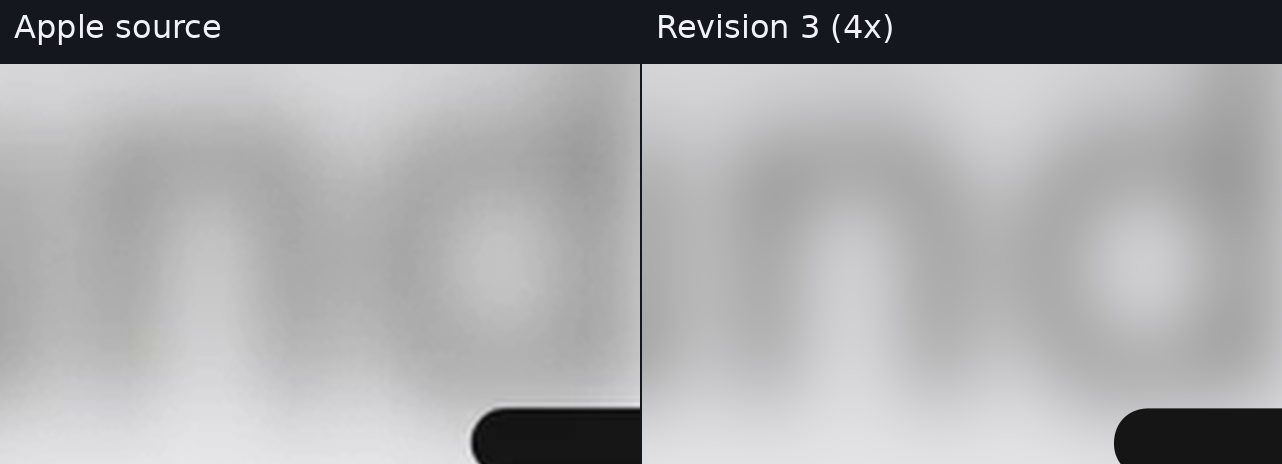
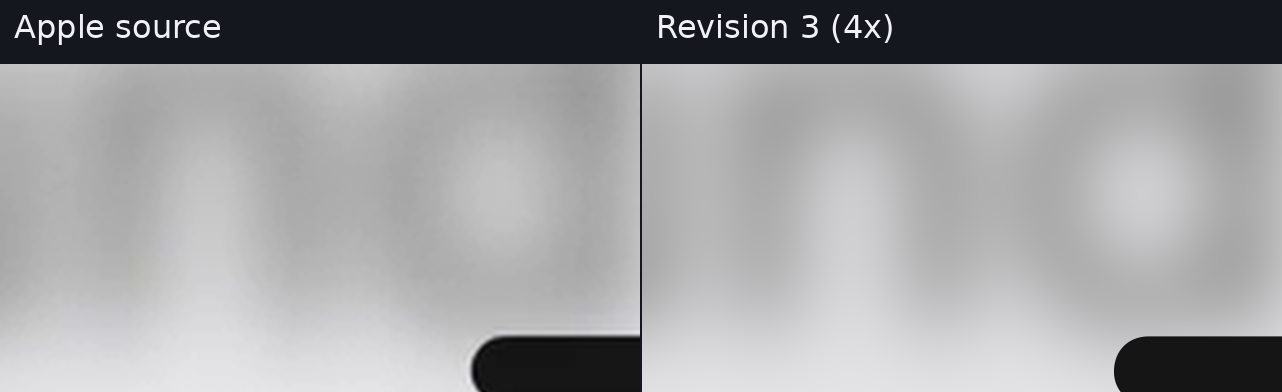
Use short nonregressive reconstruction rounds and extend toolbar crops (#222) [skip ci]

Changed region(s): [[0.0, 0.0306, 1.0, 0.2755], [0.3432, 0.8265, 0.4992, 0.9184], [0.8736, 0.8571, 1.0, 0.9184]]

diff --git a/docs/liquid-glass/experiments/reconstruction/progress_gate.py b/docs/liquid-glass/experiments/reconstruction/progress_gate.py
@@ -27,7 +27,7 @@ def error(score: dict) -> float:
 
 
 def evaluate(previous: dict, candidate: dict, *, visual_review: bool,
-             replay_verified: bool, source_support_verified: bool) -> dict:
+             replay_verified: bool, source_support_verified: bool, policy: str = 'nonregressive') -> dict:
     """Require matching named observations and an identical measurement epoch.
 
     epoch is a content digest of references, sources, masks, registration,
@@ -35,6 +35,8 @@ def evaluate(previous: dict, candidate: dict, *, visual_review: bool,
     Optional foreground/shadow errors become non-regression guards when present
     in the incumbent. Removing them is not permitted. Crops are advisory.
     """
+    if policy not in ('nonregressive', 'relative'):
+        raise ValueError('Unknown improvement policy')
     if not previous.get('epoch') or previous['epoch'] != candidate.get('epoch'):
         raise ValueError('Epoch mismatch: remeasure source/protocol changes separately')
     before, after = previous['observations'], candidate['observations']
@@ -47,28 +49,34 @@ def evaluate(previous: dict, candidate: dict, *, visual_review: bool,
         guards = {key: metric(new, key) <= metric(old, key)
                   for key in ('glass', 'foreground', 'shadow') if key in old}
         # Zero residual is terminal, not an infinite source of successful ties.
-        improved = E0 > 0 and E1 <= ERROR_RATIO * E0
+        improved = E0 > 0 and E1 < E0
+        passed = (E0 > 0 and E1 <= ERROR_RATIO * E0) if policy == 'relative' else E1 <= E0
         reports[name] = {'previous_error': E0, 'candidate_error': E1,
-                         'required_error_max': ERROR_RATIO * E0,
+                         'required_error_max': (ERROR_RATIO if policy == 'relative' else 1.) * E0,
                          'relative_reduction': (1-E1/E0) if E0 else None,
-                         'milestone_passed': improved, 'nonregression': guards,
-                         'passed': improved and all(guards.values())}
+                         'milestone_passed': passed, 'strict_improvement': improved, 'nonregression': guards,
+                         'passed': passed and all(guards.values())}
     checks = {'visual_review': visual_review is True,
               'independent_replay': replay_verified is True,
               'source_support': source_support_verified is True}
-    accepted = all(r['passed'] for r in reports.values()) and all(checks.values())
-    return {'accepted': accepted, 'epoch': previous['epoch'], 'error_ratio': ERROR_RATIO,
+    accepted = (all(r['passed'] for r in reports.values())
+                and any(r['strict_improvement'] for r in reports.values())
+                and all(checks.values()))
+    return {'accepted': accepted, 'epoch': previous['epoch'], 'policy': policy, 'error_ratio': ERROR_RATIO if policy == 'relative' else 1.,
             'observations': reports, 'evidence': checks}
 
 
-def progress(baseline_error: float, current_error: float, count: int) -> dict:
+def progress(baseline_error: float, current_error: float, count: int, *, policy: str = 'nonregressive') -> dict:
     if not math.isfinite(baseline_error) or baseline_error <= 0:
         raise ValueError('Progress requires positive finite baseline error')
     if not math.isfinite(current_error) or current_error < 0 or isinstance(count, bool) or not isinstance(count, int) or count < 0:
         raise ValueError('Invalid current error or qualifying-pass count')
-    return {'residual_reduction_percent': 100*(1-current_error/baseline_error),
-            'required_reduction_percent': 100*(1-ERROR_RATIO**count),
-            'required_error_max': baseline_error*ERROR_RATIO**count,
+    if policy not in ('nonregressive', 'relative'):
+        raise ValueError('Unknown improvement policy')
+    ratio = ERROR_RATIO if policy == 'relative' else 1.
+    return {'policy': policy, 'residual_reduction_percent': 100*(1-current_error/baseline_error),
+            'required_reduction_percent': 100*(1-ratio**count),
+            'required_error_max': baseline_error*ratio**count,
             'qualifying_passes': count, 'is_apple_accuracy': False}
 
 
@@ -77,9 +85,10 @@ def main():
     ap.add_argument('previous',type=Path);ap.add_argument('candidate',type=Path)
     ap.add_argument('--evidence',type=Path,required=True,
                     help='JSON booleans visual_review, replay_verified, source_support_verified')
+    ap.add_argument('--policy', choices=('nonregressive', 'relative'), default='nonregressive')
     args=ap.parse_args()
     report=evaluate(json.loads(args.previous.read_text()),json.loads(args.candidate.read_text()),
-                    **json.loads(args.evidence.read_text()))
+                    policy=args.policy, **json.loads(args.evidence.read_text()))
     print(json.dumps(report,indent=2,allow_nan=False))
     raise SystemExit(0 if report['accepted'] else 1)
 

diff --git a/docs/liquid-glass/experiments/reconstruction/test_progress_gate.py b/docs/liquid-glass/experiments/reconstruction/test_progress_gate.py
@@ -15,7 +15,7 @@ class GateTests(unittest.TestCase):
             for key in scores:scores[key]*=.99
         self.evidence=dict(visual_review=True,replay_verified=True,source_support_verified=True)
 
-    def gate(self):return evaluate(self.before,self.after,**self.evidence)
+    def gate(self):return evaluate(self.before,self.after,policy="relative",**self.evidence)
 
     def test_weighted_rms_not_mean_of_rms(self):
         self.assertAlmostEqual(error({'glass':10,'rim':20}),math.sqrt(190))
@@ -66,9 +66,26 @@ class GateTests(unittest.TestCase):
                 score['glass']=score['rim']=0
         self.assertFalse(self.gate()['accepted'])
 
+    def test_new_policy_accepts_small_gain_and_other_reference_tie(self):
+        self.after['observations']['A']={'glass':9.999,'rim':19.999,'shadow':3}
+        self.after['observations']['B']=copy.deepcopy(self.before['observations']['B'])
+        report=evaluate(self.before,self.after,**self.evidence)
+        self.assertTrue(report['accepted'])
+        self.assertEqual(report['policy'],'nonregressive')
+
+    def test_new_policy_rejects_all_ties_and_any_reference_regression(self):
+        self.after=copy.deepcopy(self.before)
+        self.assertFalse(evaluate(self.before,self.after,**self.evidence)['accepted'])
+        self.after['observations']['A']['glass']-=.01
+        self.after['observations']['B']['rim']+=.00001
+        self.assertFalse(evaluate(self.before,self.after,**self.evidence)['accepted'])
+
+    def test_new_progress_has_no_promised_compound_gain(self):
+        self.assertEqual(progress(10,9,15)['required_reduction_percent'],0)
+
     def test_milestones(self):
-        self.assertAlmostEqual(progress(10,9,15)['required_reduction_percent'],7.2431,places=3)
-        self.assertAlmostEqual(progress(10,9,20)['required_reduction_percent'],9.53895,places=3)
+        self.assertAlmostEqual(progress(10,9,15,policy="relative")['required_reduction_percent'],7.2431,places=3)
+        self.assertAlmostEqual(progress(10,9,20,policy="relative")['required_reduction_percent'],9.53895,places=3)
         self.assertFalse(progress(10,9,20)['is_apple_accuracy'])
 
 

diff --git a/docs/liquid-glass/recreation-models.md b/docs/liquid-glass/recreation-models.md
@@ -34,11 +34,11 @@ The circular playback control is the **current most-polished calibration**, sele
 The legacy records below predate this stricter protocol. Preserve their experiment counts and inputs; do not relabel them as qualifying improvements without an audit.
 
 - Freeze an input epoch: reference/source hashes, registration, masks, color space, native sampling, quantization and measurement definitions. Changed input evidence requires a separately reported epoch and baseline, not an apparent model improvement.
-- For each observation, measure RGB errors in 0–255 units: `E = sqrt(0.7 glass_RMSE² + 0.3 rim_RMSE²)`. A new qualifying pass requires `E_new ≤ 0.995 E_previous` **on every active background independently**, with no whole-glass regression. Retain foreground and exterior-shadow nonregression guards where measured. Ties and rejected trials do not count.
+- For each observation, measure RGB errors in 0–255 units: `E = sqrt(0.7 glass_RMSE² + 0.3 rim_RMSE²)`. A new qualifying pass requires `E_new ≤ E_previous` **on every active background independently**, at least one measurable improvement beyond known numerical uncertainty, and no whole-glass regression. This prospective nonregression policy replaces the earlier 0.5% minimum; preserve earlier acceptance records unchanged. Retain foreground and exterior-shadow nonregression guards where measured. Ties and rejected trials do not count.
 - A numerical win also requires independent replay, source-footprint validation and visual review against known defects. [Acceptance gate](experiments/reconstruction/progress_gate.py) consumes those separate evidence decisions; it cannot infer them from a low error.
-- After `n` qualifying passes, the residual must be at most `0.995ⁿ E₀`: 7.24% lower after 15, 9.54% after 20. Display `100(1−E/E₀)` as **residual reduction from baseline**, never percent Apple accuracy. A zero residual is terminal, not another successful tie.
+- There is no promised minimum compound gain. The gate retains `--policy relative` for reproducing historical 0.5% decisions. Prefer short bounded proposals and reuse valid unchanged-stage evidence. Display `100(1−E/E₀)` as **residual reduction from baseline**, never percent Apple accuracy. A zero residual is terminal, not another successful tie.
 - Review assumptions and model deficiencies after every three substantive experiments, including rejected trials. If the milestone stalls, revise the hypothesis or report the limitation; do not reset the baseline or accept known visual regressions to advance a counter.
-- Keep twenty qualifying single-background passes before multi-background calibration, then twenty qualifying multi-background passes for completion. A working round adds fifteen qualifying passes and rotates; it may end mid-stage. Add a third reference as a documented new stage while retaining all older scores.
+- Work on two distinct elements concurrently. Commit and push each verified pass; after three verified non-regressive passes per element, merge and rotate. This replaces the earlier 15/20-pass targets prospectively. Retain all active backgrounds and historical evidence; adding a reference is a documented new stage, not an excuse to drop older scores.
 - [Local crop diagnostics](experiments/reconstruction/crop_diagnostics.py) are advisory: fixed masks/positions, RGB and channel-edge errors, contour/refraction landmarks, and shadow/highlight profiles. Do not realign or recolor crops independently. Their purpose is to expose local defects hidden by the global average.
 
 ## Continuous pill footprint candidate

diff --git a/docs/liquid-glass/reconstruction.md b/docs/liquid-glass/reconstruction.md
@@ -57,7 +57,7 @@ Apple, [Meet Liquid Glass, 11:50](https://developer.apple.com/videos/play/wwdc20
 
 ![Underside comparison with Apple on the left](assets/toolbar-underside-current.png)
 
-These fixed-position crops use the current 4× render. Visible-composite RMSE within the glass mask decreases from 8.964 to 8.892 in the upper rim and from 3.110 to 2.895 around the `d`. The underside worsens from **5.062 to 5.471**; its reflections remain too distinct. These [local diagnostics](experiments/reconstruction/studies/archive-plus/review-round/pass-03-crops.json) remain advisory and do not imply every region improved.
+These fixed-position crops use the current 4× render. The upper-rim crop now extends downward by half its original height; the letter-refraction crop starts at its bottom edge. With these boundaries, visible-composite RMSE within the glass mask decreases from 7.403 to 7.303 in the upper rim and from 3.368 to 3.096 around the `d`. The underside worsens from **5.062 to 5.471**; its reflections remain too distinct. The [reframed diagnostics](experiments/reconstruction/studies/archive-plus/review-round/pass-03-crops-reframed.json) and [original boundaries/scores](experiments/reconstruction/studies/archive-plus/review-round/pass-03-crops.json) remain advisory and do not imply every region improved.
 
 </details>
 
